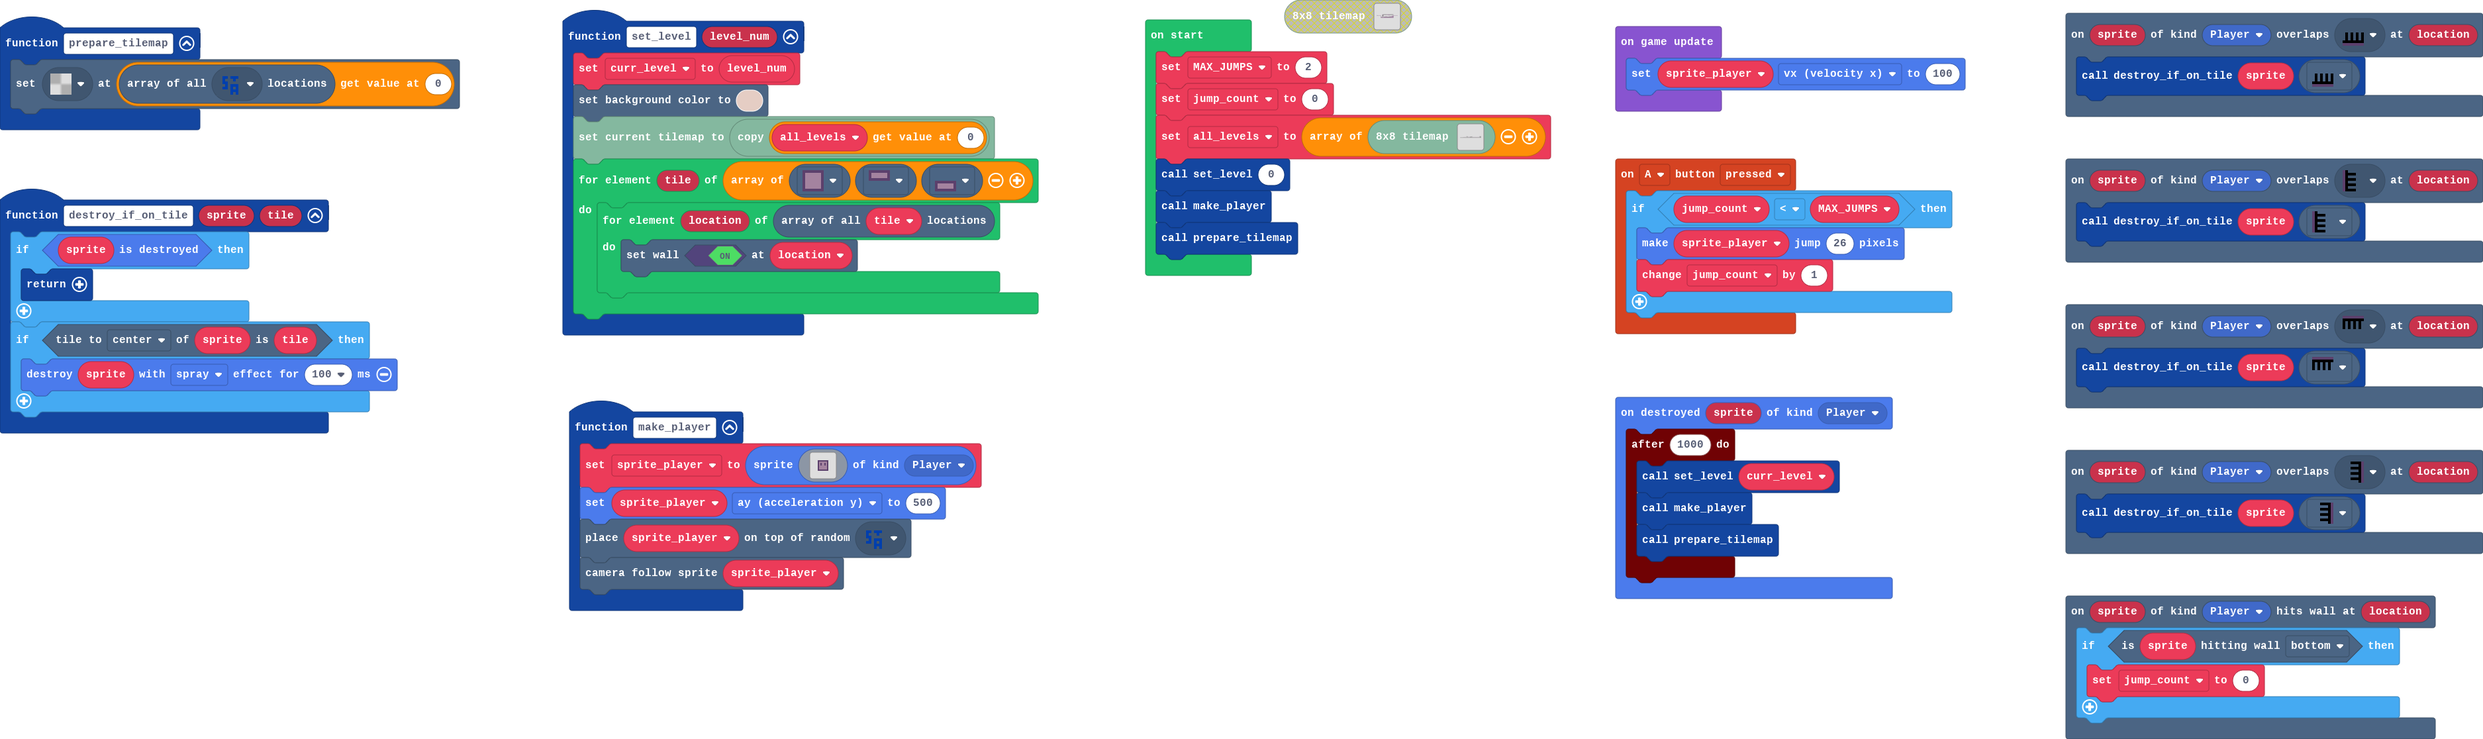
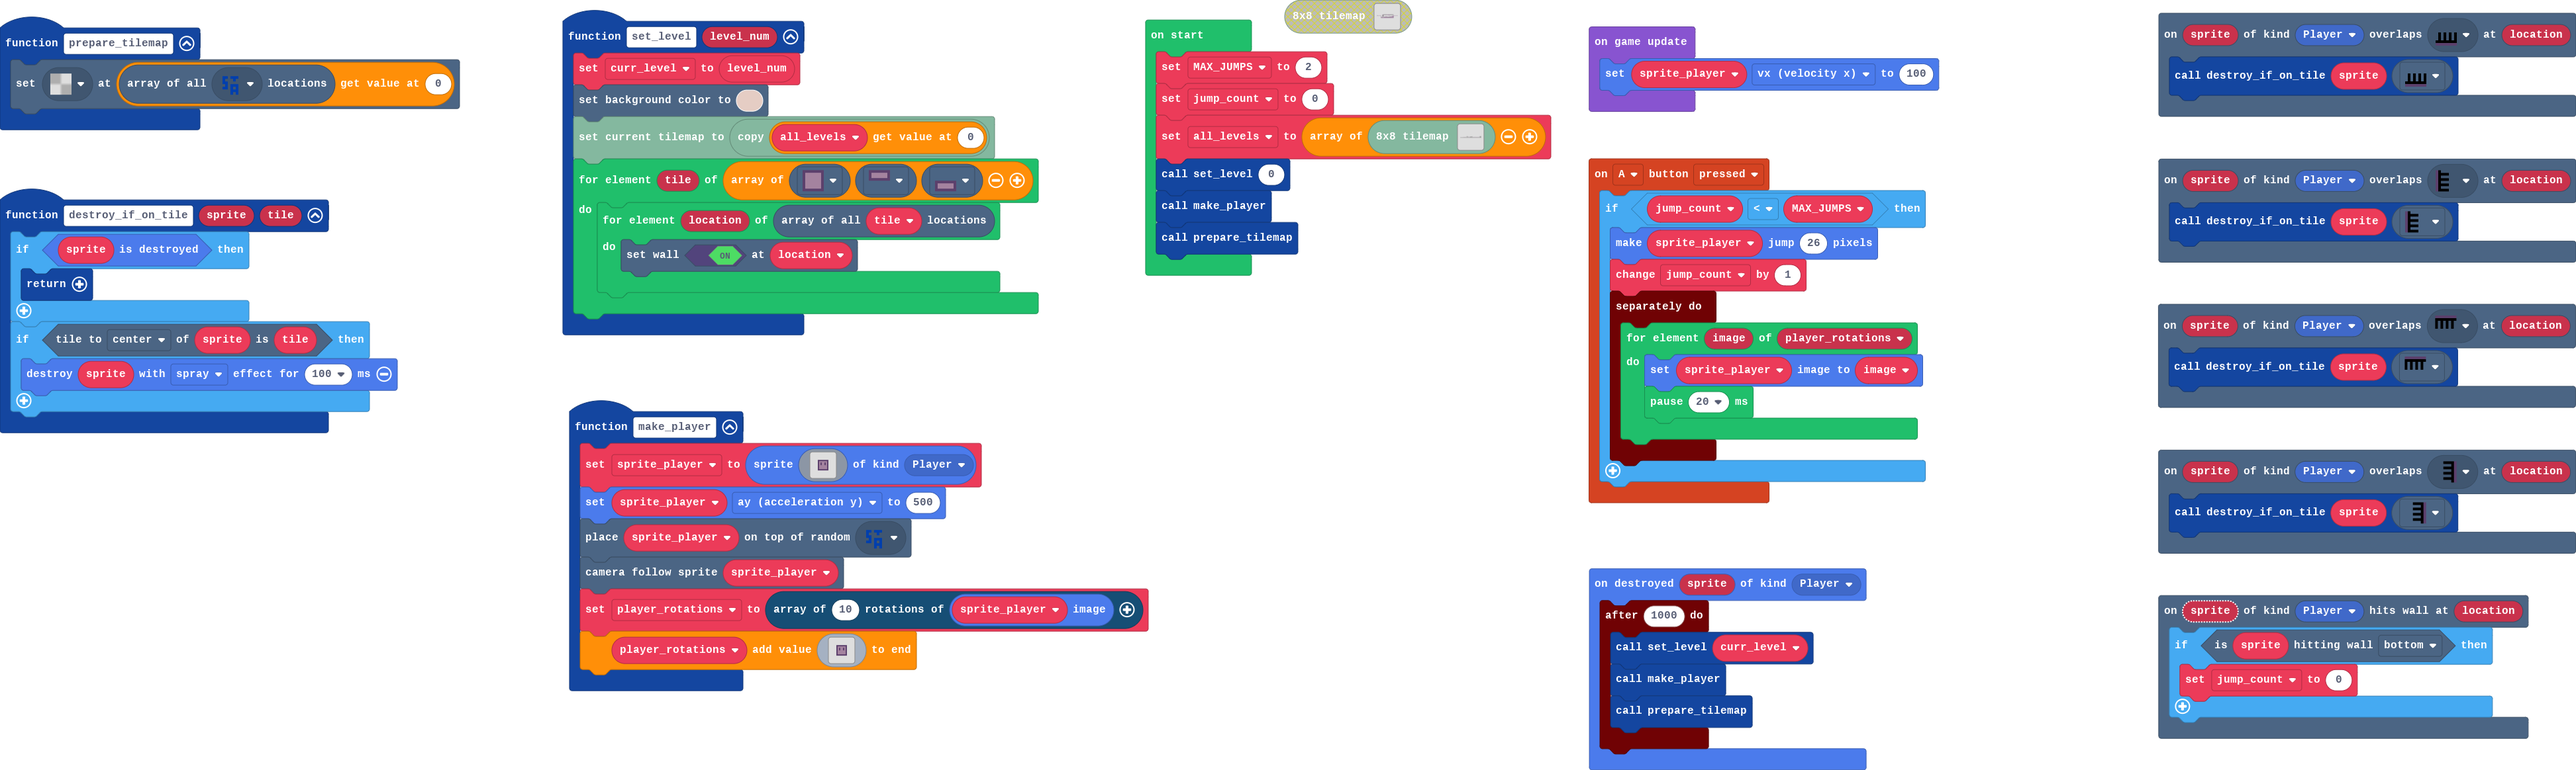
Make player rotate on jump

diff --git a/main.ts b/main.ts
@@ -20,6 +20,12 @@ controller.A.onEvent(ControllerButtonEvent.Pressed, function () {
     if (jump_count < MAX_JUMPS) {
         spriteutils.jumpImpulse(sprite_player, 26)
         jump_count += 1
+        timer.background(function () {
+            for (let image2 of player_rotations) {
+                sprite_player.setImage(image2)
+                pause(20)
+            }
+        })
     }
 })
 function prepare_tilemap () {
@@ -41,6 +47,8 @@ function make_player () {
     sprite_player.ay = 500
     tiles.placeOnRandomTile(sprite_player, assets.tile`start_tile`)
     scene.cameraFollowSprite(sprite_player)
+    player_rotations = scaling.createRotations(sprite_player.image, 10)
+    player_rotations.push(assets.image`player`)
 }
 scene.onOverlapTile(SpriteKind.Player, assets.tile`spikes_right0`, function (sprite, location) {
     destroy_if_on_tile(sprite, assets.tile`spikes_right0`)
@@ -55,6 +63,7 @@ sprites.onDestroyed(SpriteKind.Player, function (sprite) {
         prepare_tilemap()
     })
 })
+let player_rotations: Image[] = []
 let sprite_player: Sprite = null
 let curr_level = 0
 let all_levels: tiles.WorldMap[] = []
